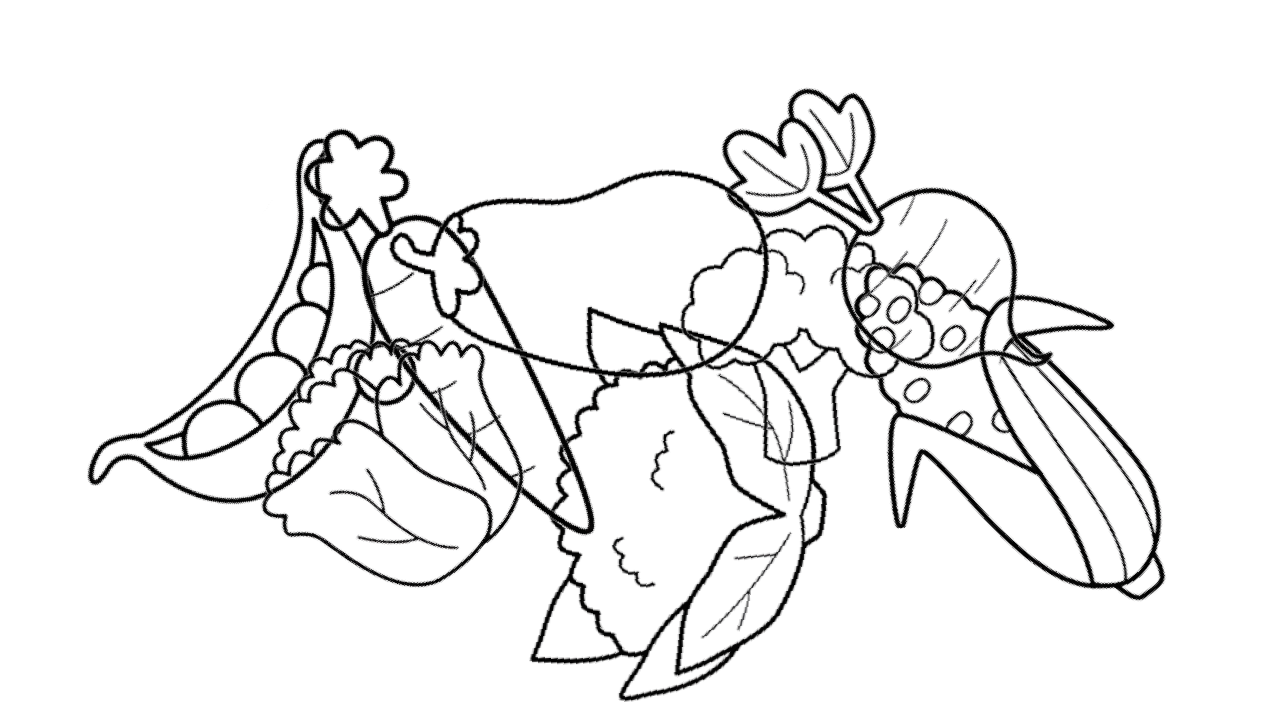
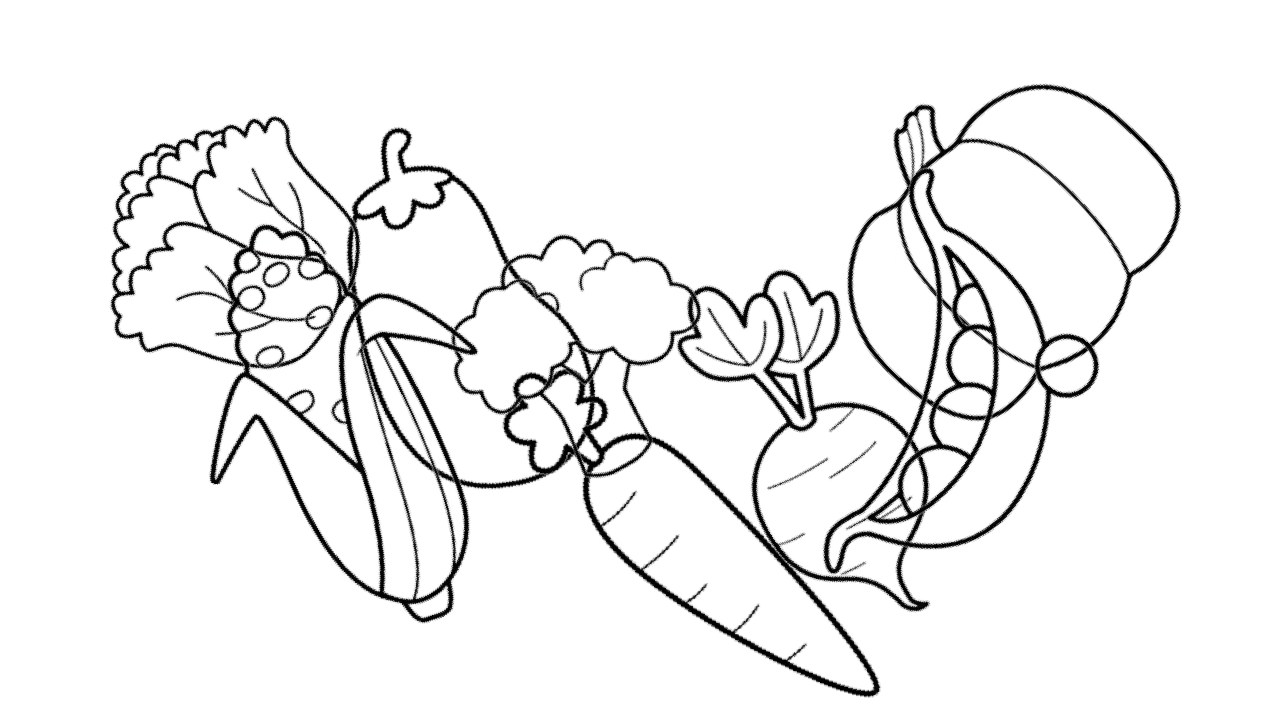
new overlay shapes (5)

diff --git a/core/src/com/mygdx/game/utils/overlayShapes/ShapesDescriptor.java b/core/src/com/mygdx/game/utils/overlayShapes/ShapesDescriptor.java
@@ -5,22 +5,46 @@ import java.util.ArrayList;
 public class ShapesDescriptor {
 
     static String[] allDescriptions = {
-            "(707, 282);11;cauliflower.png\n" +
-                    "(816, 81);3;peas.png\n" +
-                    "(242, 242);68;beet.png\n" +
-                    "(151, 51);14;pumpkin.png\n" +
-                    "(662, 268);85;cabbage.png\n" +
-                    "(458, 157);73;eggplant.png\n" +
-                    "(399, 318);65;pepper.png\n" +
-                    "(-10, 153);68;carrot.png\n",
-            "(-5, 131);30;peas.png\n" +
-                    "(751, 170);44;corn.png\n" +
-                    "(520, 303);81;cauliflower.png\n" +
-                    "(667, 207);8;broccoli.png\n" +
-                    "(213, 109);60;carrot.png\n" +
-                    "(206, 268);41;cabbage.png\n" +
-                    "(680, 44);52;beet.png\n" +
-                    "(374, 127);81;eggplant.png\n"
+            "(282, 177);69;pepper.png\n" +
+                    "(606, 91);62;cauliflower.png\n" +
+                    "(409, -17);21;eggplant.png\n" +
+                    "(186, 292);46;broccoli.png\n" +
+                    "(818, 243);86;corn.png\n" +
+                    "(4, 50);54;peas.png\n" +
+                    "(694, 309);83;beet.png\n" +
+                    "(454, 264);43;carrot.png\n",
+            "(767, 6);46;pumpkin.png\n" +
+                    "(302, 92);17;eggplant.png\n" +
+                    "(458, 354);76;carrot.png\n" +
+                    "(634, 226);32;beet.png\n" +
+                    "(46, 60);57;cabbage.png\n" +
+                    "(684, 161);51;peas.png\n" +
+                    "(414, 186);30;broccoli.png\n" +
+                    "(114, 161);27;corn.png\n",
+            "(311, 111);1;pumpkin.png\n" +
+                    "(128, 306);0;eggplant.png\n" +
+                    "(609, 201);47;broccoli.png\n" +
+                    "(716, 279);61;cabbage.png\n" +
+                    "(312, 49);58;carrot.png\n" +
+                    "(126, 192);64;beet.png\n" +
+                    "(475, -46);50;peas.png\n" +
+                    "(804, 182);70;cauliflower.png\n",
+            "(676, 89);32;peas.png\n" +
+                    "(451, 303);5;carrot.png\n" +
+                    "(317, 252);78;broccoli.png\n" +
+                    "(139, 209);30;corn.png\n" +
+                    "(783, 135);79;beet.png\n" +
+                    "(99, 156);81;cabbage.png\n" +
+                    "(584, 15);7;eggplant.png\n" +
+                    "(549, 168);44;pumpkin.png\n",
+            "(533, 110);83;broccoli.png\n" +
+                    "(744, 258);43;corn.png\n" +
+                    "(91, 182);22;pepper.png\n" +
+                    "(387, 241);74;pumpkin.png\n" +
+                    "(695, 34);30;carrot.png\n" +
+                    "(639, 210);84;cauliflower.png\n" +
+                    "(248, 96);88;cabbage.png\n" +
+                    "(268, 160);70;eggplant.png\n"
     };
 
     private static int clearNumber(String inputStr) {

diff --git a/core/src/com/mygdx/game/utils/ApplicationSettings.java b/core/src/com/mygdx/game/utils/ApplicationSettings.java
@@ -41,7 +41,7 @@ public class ApplicationSettings {
     public static String COLUMN_BLACK_AND_WHITE_SHAPES_DIR = "overlayShapes/columnsBlackWhiteShapes/";
 
     // TODO: remove it
-    public static int COUNT_OF_FILES = 2;
+    public static int COUNT_OF_FILES = 5;
 
 
     // ---- The extra fourth settings
